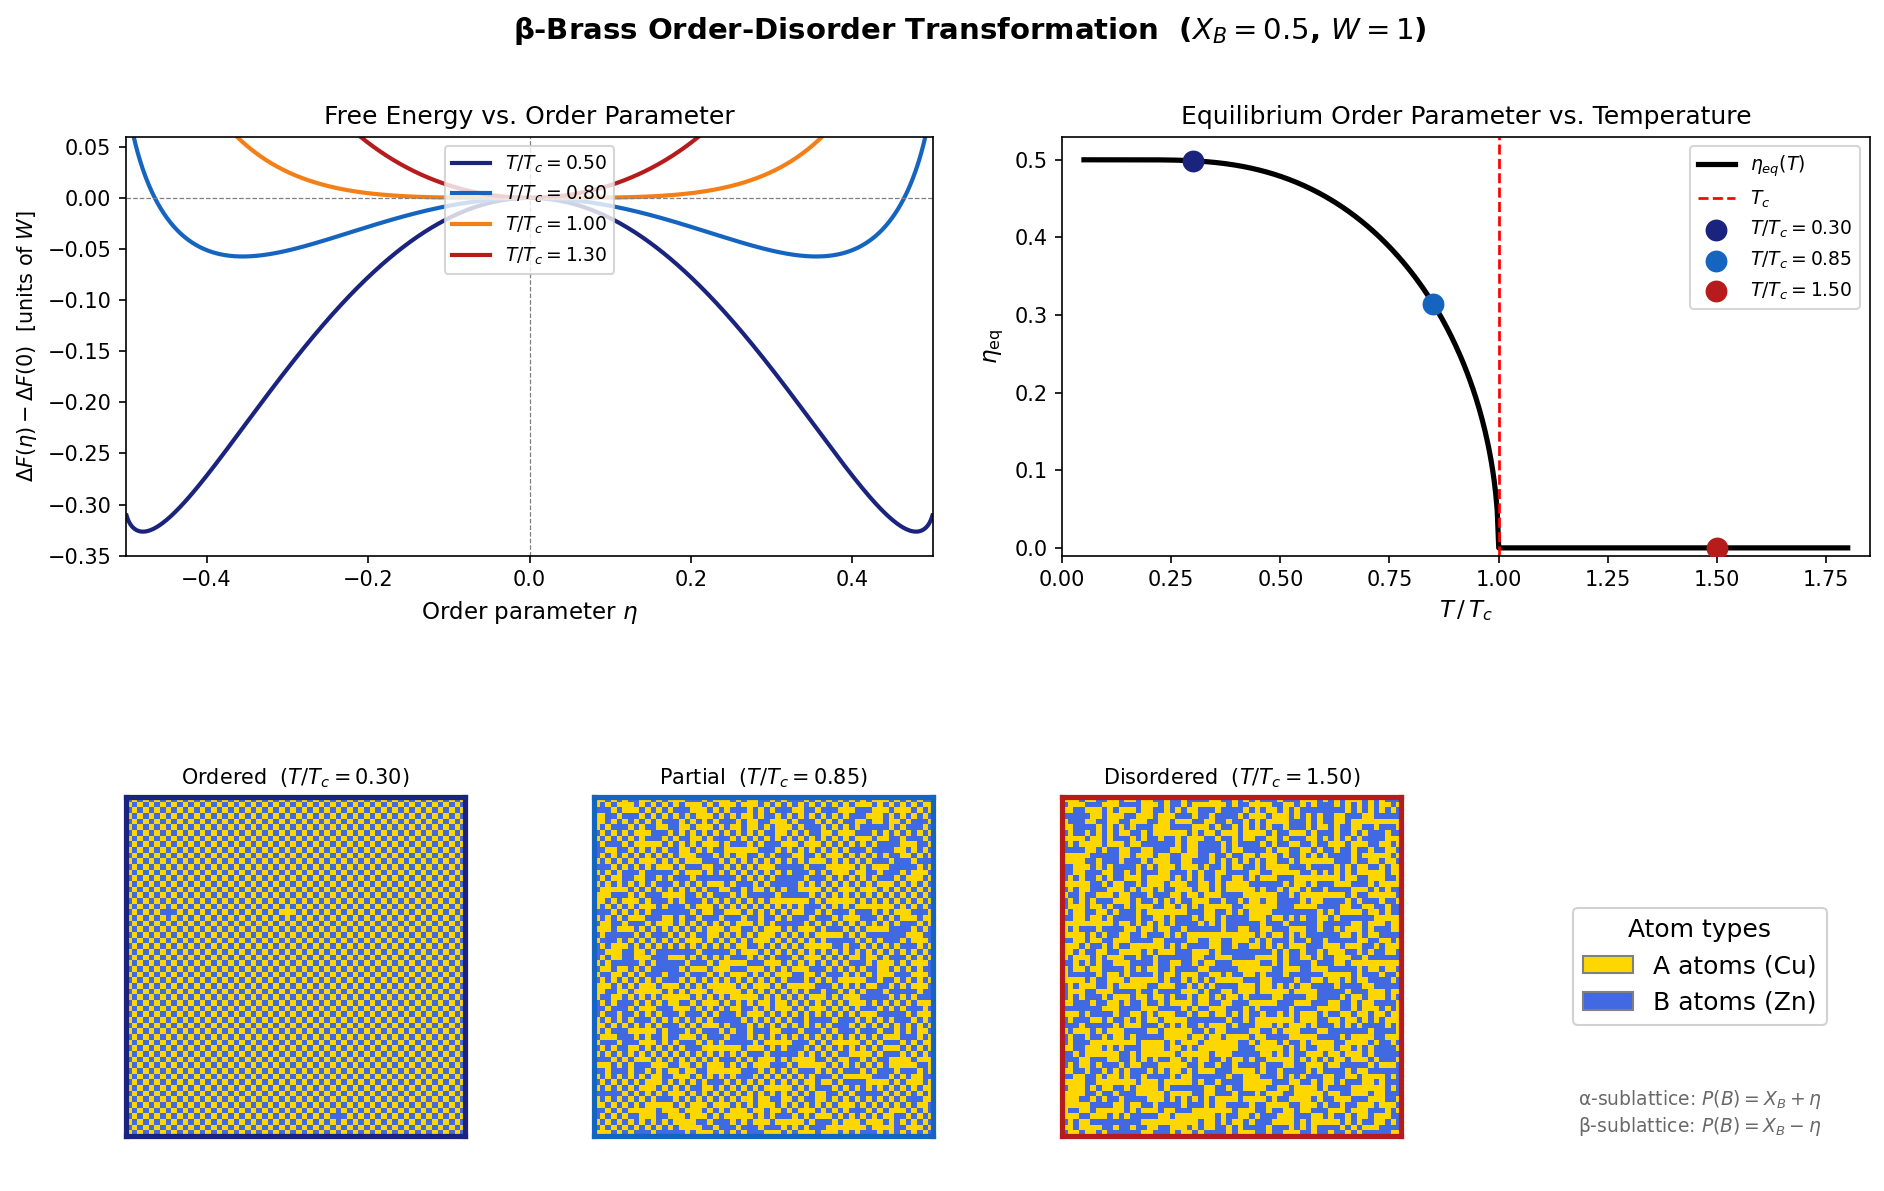
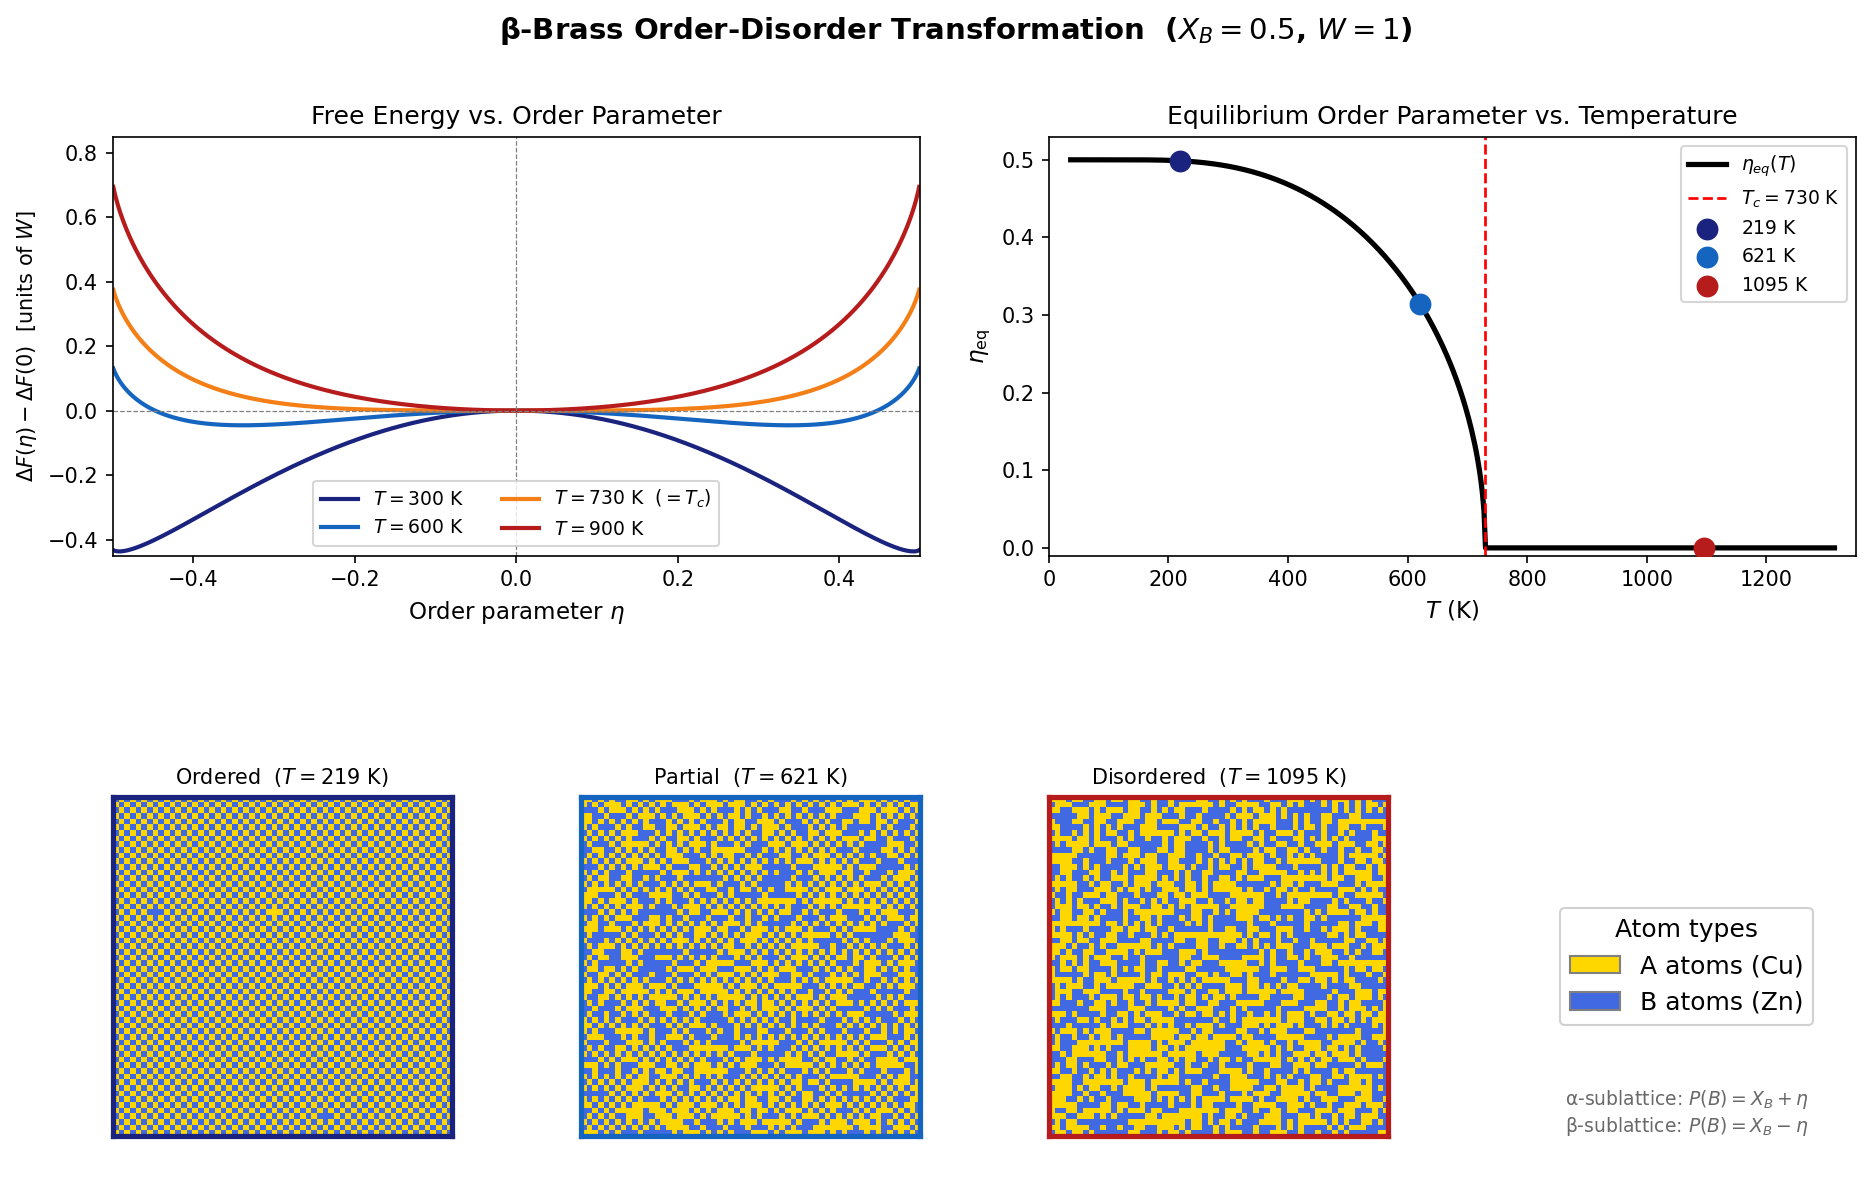
Update F(η) plot: show above-zero curves, bottom legend, Kelvin labels
- Expanded ylim to (-0.45, 0.85) so T≥T_c curves are fully visible above zero
- Moved F(η) legend to lower center (ncol=2)
- Replaced T/Tc labels with real Kelvin temperatures (300/600/730/900 K)
- η_eq x-axis now shows T in Kelvin; T_c = 730 K annotated
- Lattice snapshot titles updated to Kelvin

diff --git a/order_disorder.py b/order_disorder.py
@@ -8,6 +8,7 @@ Free-energy minimization using the formula from lecture notes (65.4):
 
 Units: k_B = 1, W = 1  →  T_c = W = 1
 Order parameter η ∈ [-X_B, +X_B]; η=0 disordered, |η|=X_B fully ordered.
+Real-scale: β-brass T_c ≈ 730 K (457 °C), used to label axes in Kelvin.
 """
 
 import numpy as np
@@ -23,7 +24,8 @@ X_A = 1 - X_B     # Cu mole fraction (A atoms)
 W   = 1.0          # ordering interaction; W > 0 → AB bonds energetically favored
 T_c = W            # critical temperature (k_B T_c = W, with k_B = 1)
 
-GRID = 60          # lattice grid size for snapshots
+GRID   = 60        # lattice grid size for snapshots
+T_c_K  = 730      # β-brass critical temperature in Kelvin (≈ 457 °C)
 
 # ── Free energy (per site) ───────────────────────────────────────────────────
 def delta_F(eta, T):
@@ -60,9 +62,11 @@ def make_lattice(eta, seed=42):
 T_sweep  = np.linspace(0.05 * T_c, 1.8 * T_c, 500)
 eta_vals = np.array([eta_equilibrium(T) for T in T_sweep])
 
-# Temperatures for the F(η) curves and lattice snapshots
-T_curves = [0.50, 0.80, 1.00, 1.30]
-T_snaps  = [0.30, 0.85, 1.50]
+# Temperatures for the F(η) curves and lattice snapshots (in Kelvin, then normalised)
+T_curves_K = [300, 600, 730, 900]
+T_snaps_K  = [219, 621, 1095]
+T_curves = [T / T_c_K for T in T_curves_K]
+T_snaps  = [T / T_c_K for T in T_snaps_K]
 colors   = ['#1a237e', '#1565c0', '#f57f17', '#b71c1c']
 
 # ── Figure layout ─────────────────────────────────────────────────────────────
@@ -78,44 +82,44 @@ ax_leg = fig.add_subplot(gs[1, 3])
 
 # ── Panel 1: ΔF(η) − ΔF(0) vs η ─────────────────────────────────────────────
 eta_arr = np.linspace(-0.499, 0.499, 800)
-for T, c in zip(T_curves, colors):
+for T, T_K, c in zip(T_curves, T_curves_K, colors):
     F = np.array([delta_F(e, T) for e in eta_arr])
     F -= delta_F(0.0, T)               # normalize to disordered reference
-    ax_F.plot(eta_arr, F, color=c, lw=2, label=fr'$T/T_c = {T/T_c:.2f}$')
+    lbl = fr'$T = {T_K}$ K' + (r'  $(= T_c)$' if T_K == 730 else '')
+    ax_F.plot(eta_arr, F, color=c, lw=2, label=lbl)
 
 ax_F.axhline(0, color='gray', lw=0.6, ls='--')
 ax_F.axvline(0, color='gray', lw=0.6, ls='--')
 ax_F.set_xlabel(r'Order parameter $\eta$', fontsize=11)
 ax_F.set_ylabel(r'$\Delta F(\eta) - \Delta F(0)$  [units of $W$]', fontsize=10)
 ax_F.set_title('Free Energy vs. Order Parameter', fontsize=12)
-ax_F.legend(fontsize=9, loc='upper center')
+ax_F.legend(fontsize=9, loc='lower center', ncol=2)
 ax_F.set_xlim(-0.5, 0.5)
-ax_F.set_ylim(-0.35, 0.06)
+ax_F.set_ylim(-0.45, 0.85)
 
 # ── Panel 2: η_eq vs T ───────────────────────────────────────────────────────
-ax_eta.plot(T_sweep / T_c, eta_vals, 'k-', lw=2.5, label=r'$\eta_{eq}(T)$')
-ax_eta.axvline(1.0, color='red', lw=1.3, ls='--', label=r'$T_c$')
+ax_eta.plot(T_sweep * T_c_K, eta_vals, 'k-', lw=2.5, label=r'$\eta_{eq}(T)$')
+ax_eta.axvline(T_c_K, color='red', lw=1.3, ls='--', label=fr'$T_c = {T_c_K}$ K')
 
 snap_colors = [colors[0], colors[1], colors[3]]
-for T_s, c in zip(T_snaps, snap_colors):
+for T_s, T_K, c in zip(T_snaps, T_snaps_K, snap_colors):
     e_s = eta_equilibrium(T_s)
-    ax_eta.scatter(T_s / T_c, e_s, s=90, color=c, zorder=5,
-                   label=fr'$T/T_c = {T_s:.2f}$')
+    ax_eta.scatter(T_K, e_s, s=90, color=c, zorder=5, label=fr'${T_K}$ K')
 
-ax_eta.set_xlabel(r'$T \,/\, T_c$', fontsize=11)
+ax_eta.set_xlabel(r'$T$ (K)', fontsize=11)
 ax_eta.set_ylabel(r'$\eta_\mathrm{eq}$', fontsize=11)
 ax_eta.set_title('Equilibrium Order Parameter vs. Temperature', fontsize=12)
 ax_eta.legend(fontsize=9)
-ax_eta.set_xlim(0, 1.85)
+ax_eta.set_xlim(0, 1.85 * T_c_K)
 ax_eta.set_ylim(-0.01, 0.53)
 
 # ── Panels 3-5: lattice snapshots ─────────────────────────────────────────────
 # Gold = Cu (A atoms, sublattice B when ordered), steel blue = Zn (B atoms)
 atom_cmap = ListedColormap(['#FFD700', '#4169E1'])
 snap_titles = [
-    fr'Ordered  ($T/T_c = {T_snaps[0]:.2f}$)',
-    fr'Partial  ($T/T_c = {T_snaps[1]:.2f}$)',
-    fr'Disordered  ($T/T_c = {T_snaps[2]:.2f}$)',
+    fr'Ordered  ($T = {T_snaps_K[0]}$ K)',
+    fr'Partial  ($T = {T_snaps_K[1]}$ K)',
+    fr'Disordered  ($T = {T_snaps_K[2]}$ K)',
 ]
 
 for ax, T_s, title, seed, c in zip(ax_s, T_snaps, snap_titles, [7, 13, 21], snap_colors):
